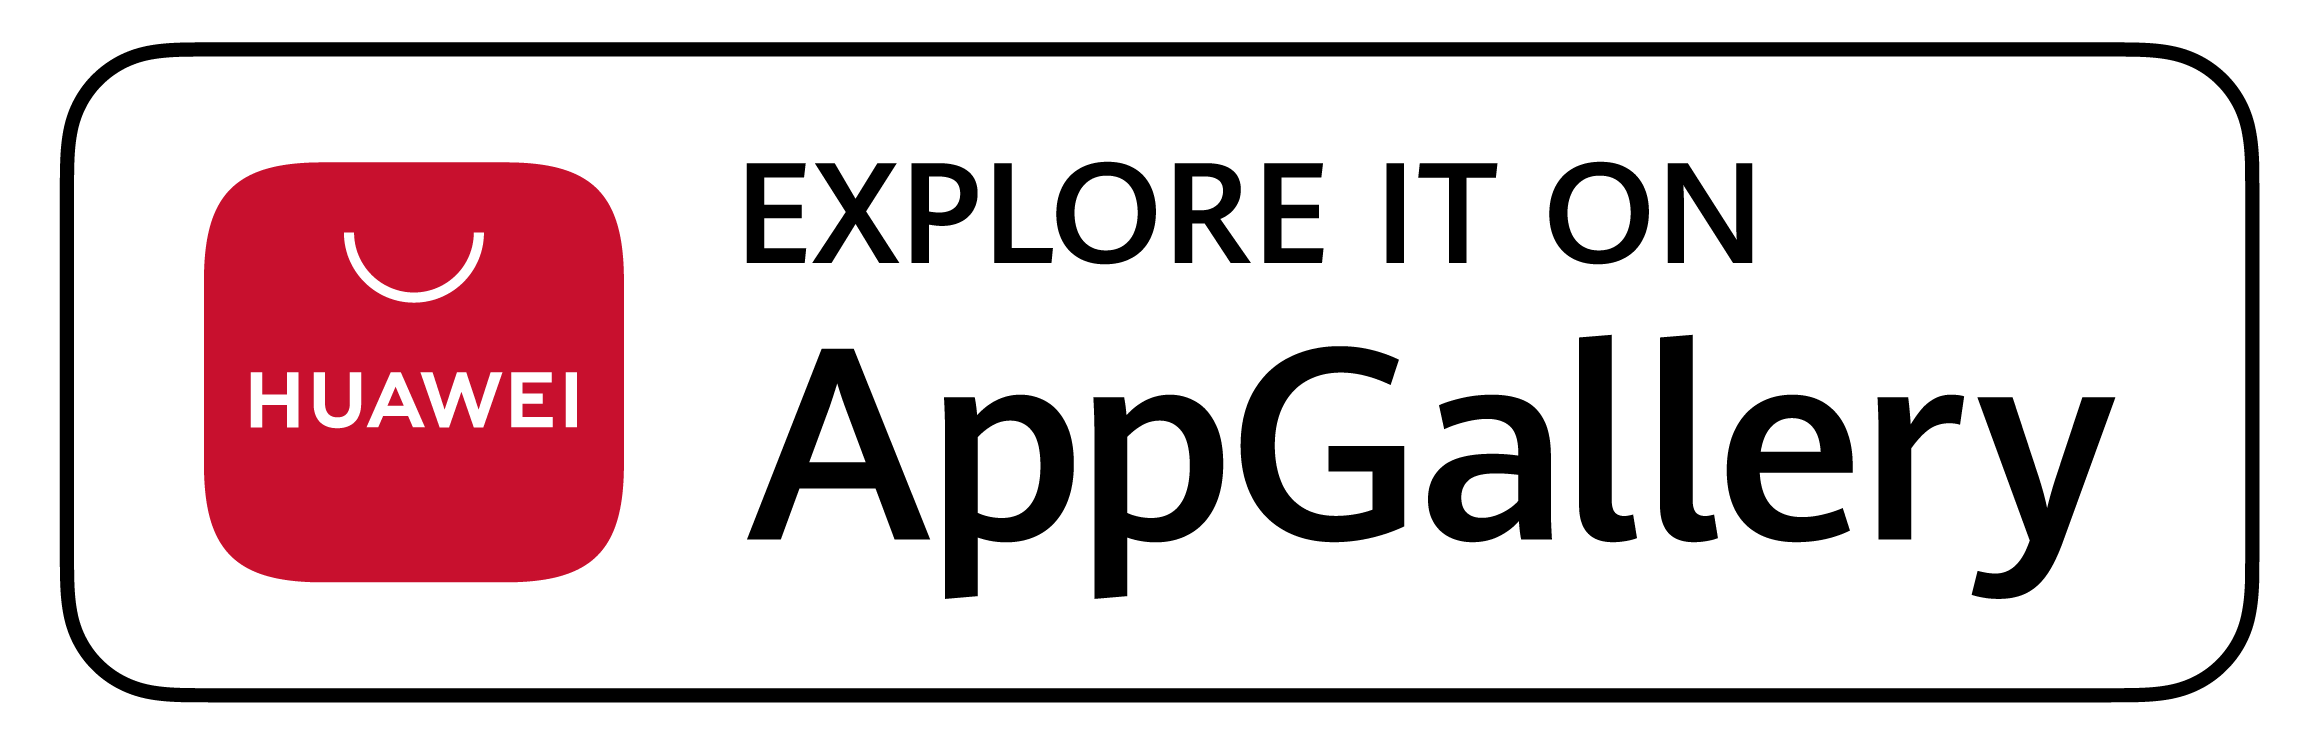
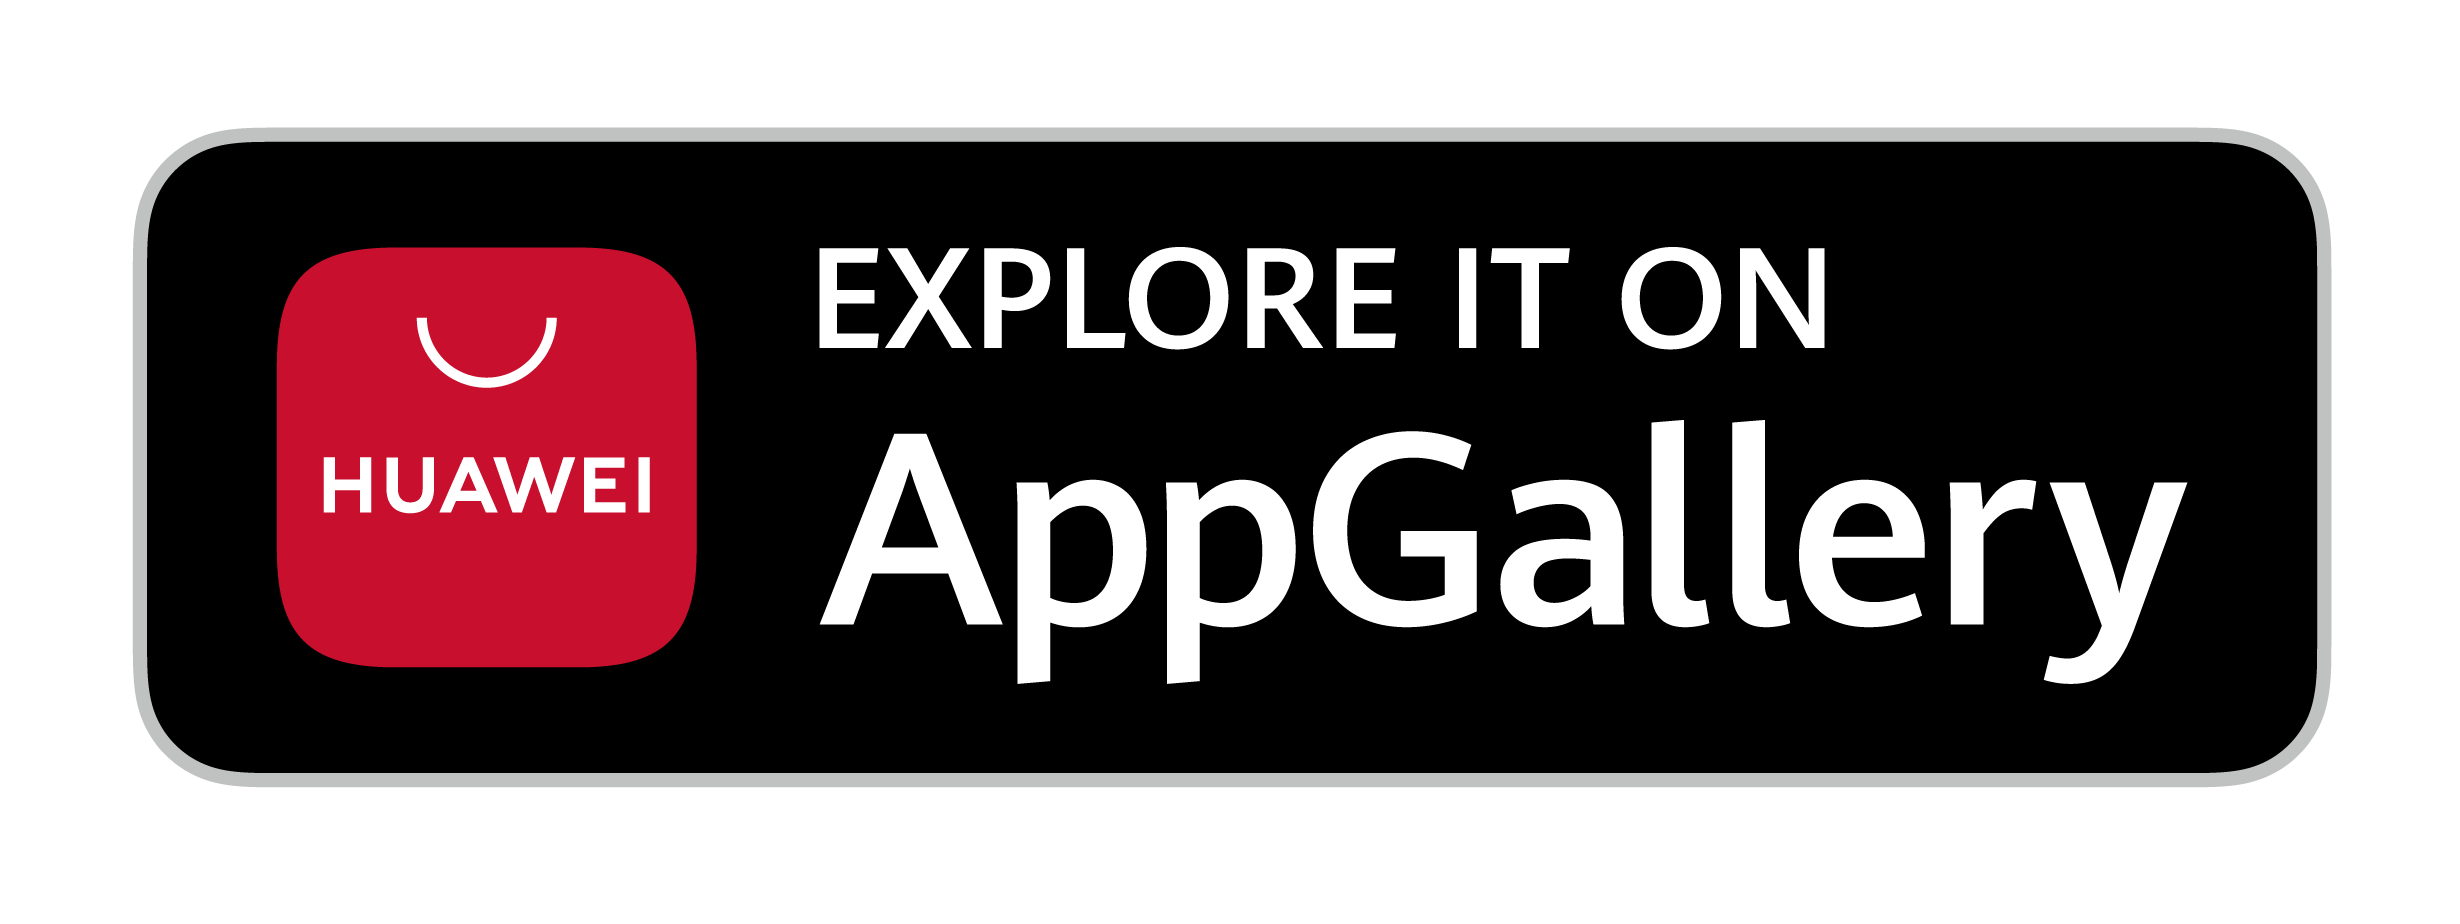
Replace huawei badge with dark version

diff --git a/README.md b/README.md
@@ -6,9 +6,9 @@ words.hk dictionary for Android and iOS
 
 # Download
 
-<a href="https://apps.apple.com/us/app/words-hk-%E7%B2%B5%E5%85%B8/id1621976909?itsct=apps_box_badge&amp;itscg=30200" style="display: inline-block; overflow: hidden; border-radius: 13px; width: 180px"><img src="https://tools.applemediaservices.com/api/badges/download-on-the-app-store/black/en-us?size=250x83&amp;releaseDate=1657756800&h=1600d970c262d2b70ad557b308a2154b" alt="Download on the App Store" style="border-radius: 13px; width: 200px; height: 80px;"></a>
+<a href="https://apps.apple.com/us/app/words-hk-%E7%B2%B5%E5%85%B8/id1621976909?itsct=apps_box_badge&amp;itscg=30200" style="display: inline-block; overflow: hidden; border-radius: 13px; width: 180px"><img src="https://tools.applemediaservices.com/api/badges/download-on-the-app-store/black/en-us?size=250x83&amp;releaseDate=1657756800&h=1600d970c262d2b70ad557b308a2154b" alt="Download on the App Store" style="border-radius: 13px; width: 200px; height: 60px; padding-top: 10px padding-bottom: 10px"></a>
 <a href='https://play.google.com/store/apps/details?id=hk.words.wordshk&pcampaignid=pcampaignidMKT-Other-global-all-co-prtnr-py-PartBadge-Mar2515-1'><img alt='Get it on Google Play' src='https://play.google.com/intl/en_us/badges/static/images/badges/en_badge_web_generic.png' height="80"/></a>
-<a href='https://url.cloud.huawei.com/rBETYqkcU0?shareTo=qrcode'><img alt='Explore it on AppGallery' src='graphics/huawei_appgallery_badge.png' height="70"></a>
+<a href='https://url.cloud.huawei.com/rBETYqkcU0?shareTo=qrcode'><img alt='Explore it on AppGallery' src='graphics/huawei_appgallery_badge.png' height="80"></a>
 <a href="https://f-droid.org/repository/browse/?fdid=hk.words.wordshk"><img alt="Get it on F-Droid" height="80" src="https://f-droid.org/badge/get-it-on.png"/></a>
 
 # Setup
